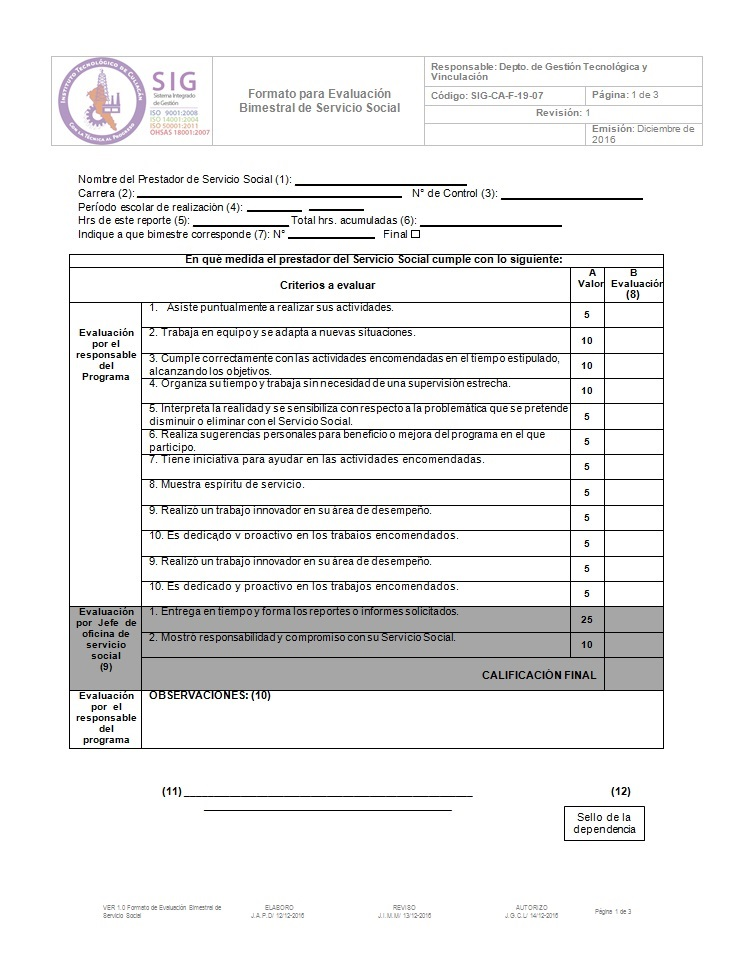
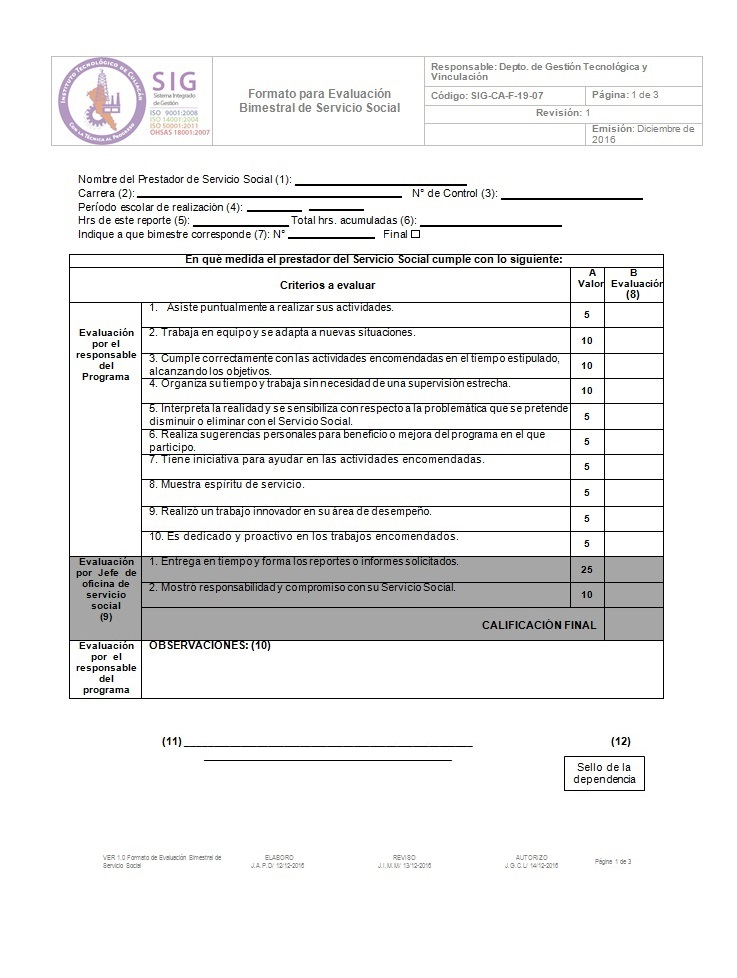
Final Reporte PDF

diff --git a/datos/descargarReporte.php b/datos/descargarReporte.php
@@ -40,8 +40,22 @@ require('fpdf.php');
 	$calVc2		= $rowR['calVc2'];
 	$obs		= $rowR['observaciones'];
 	$pdf->Text(70,70,$horas);
-
-
+	$pdf->Text(177,95,$calDc1);
+	$pdf->Text(177,102,$calDc2);
+	$pdf->Text(177,109,$calDc3);
+	$pdf->Text(177,116,$calDc4);
+	$pdf->Text(177,123,$calDc5);
+	$pdf->Text(177,130,$calDc6);
+	$pdf->Text(177,137,$calDc7);
+	$pdf->Text(177,144,$calDc8);
+	$pdf->Text(177,151,$calDc9);
+	$pdf->Text(177,157,$calDc10);
+	$pdf->Text(177,163,$calVc1);
+	$pdf->Text(177,170,$calVc2);
+	
+	$calTotal = ($calDc1+$calDc2+$calDc3+$calDc4+$calDc5+$calDc6+$calDc7+$calDc8+$calDc9+$calDc10+$calVc1+$calVc2);
+	$pdf->Text(177,177,$calTotal);
+	$pdf->Text(50,188,$obs);
 
 	//DATOS DEL EXPEDIENTE
 	$qryvalidaE	= sprintf("SELECT * FROM expedientes WHERE cveexpediente =%s",$expediente);
@@ -56,8 +70,8 @@ require('fpdf.php');
 	$rowP 		 = mysql_fetch_array($resP);
 	$responsable 	= $rowP["nomresp"];	
 	$puesto 		= $rowP["puestoresp"];		 
-	$pdf->Text(65,224,$responsable);
-	$pdf->Text(90,228,$puesto);
+	$pdf->Text(65,211,$responsable);
+	$pdf->Text(90,215,$puesto);
 
 
 
